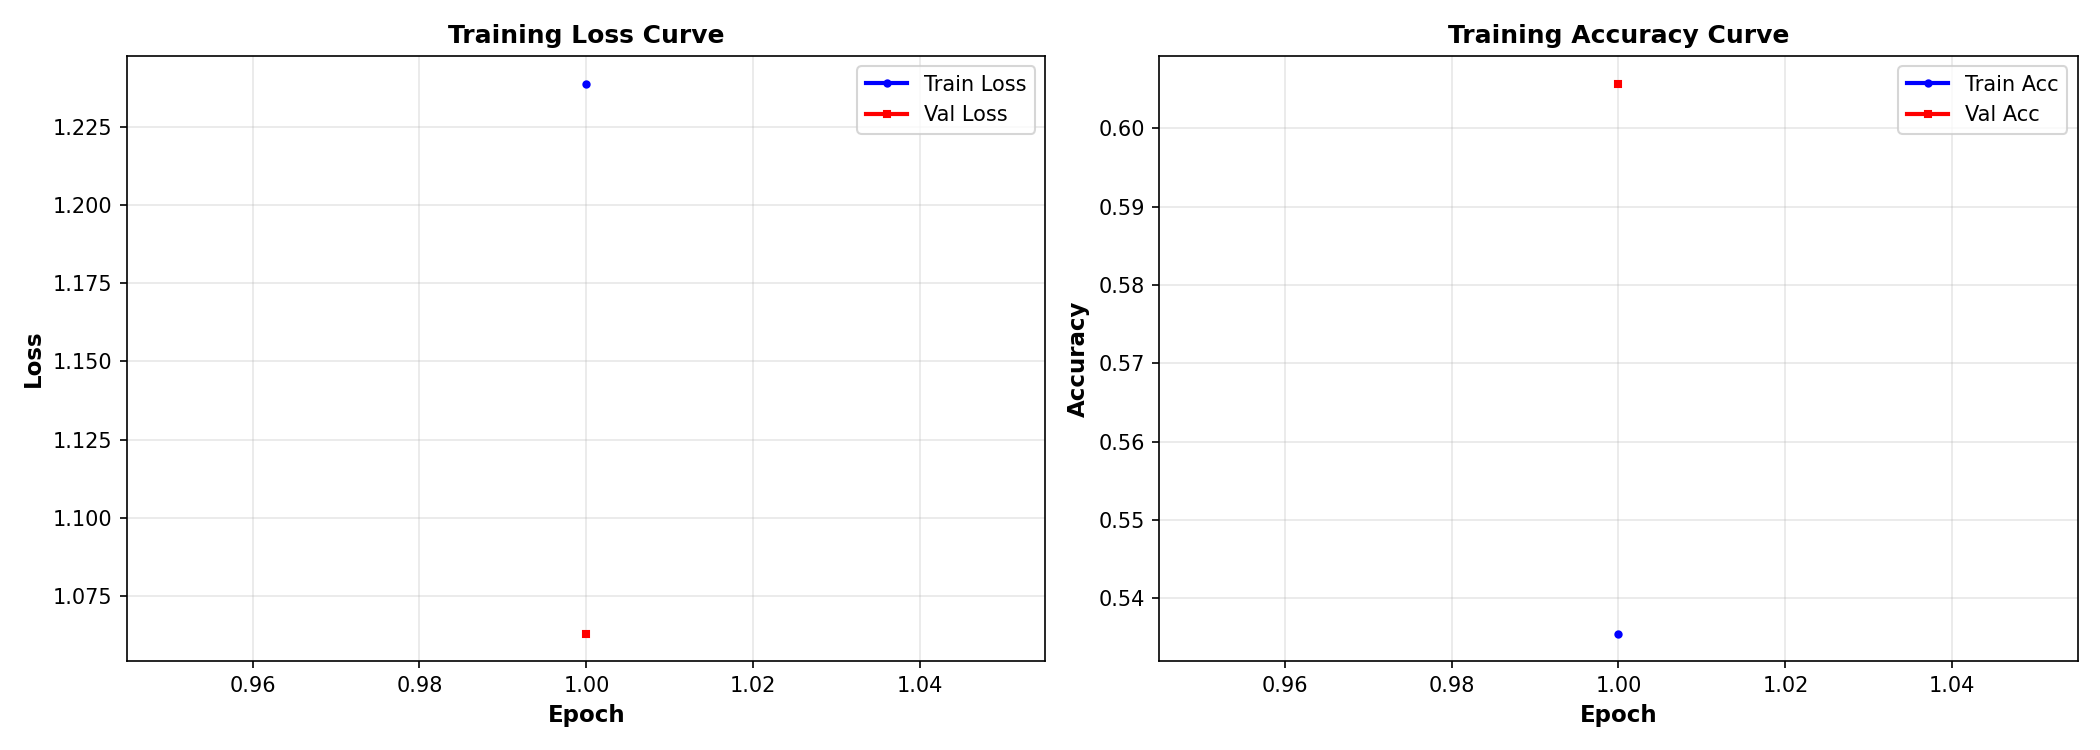
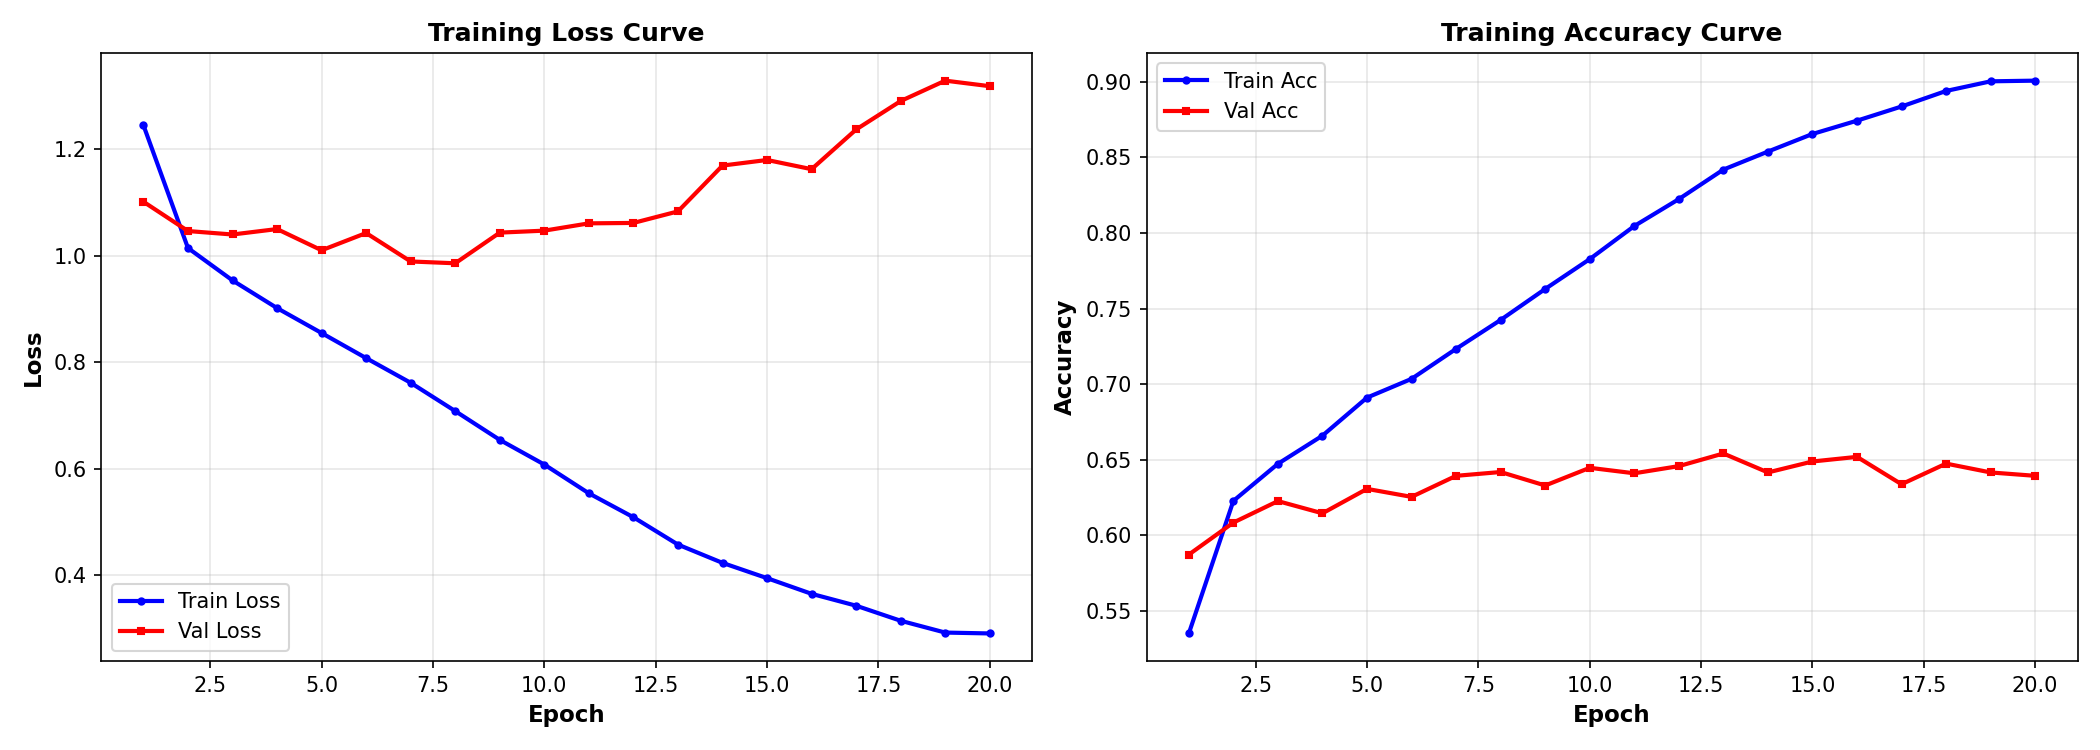
ResNet训练结果

diff --git a/scripts/train.py b/scripts/train.py
@@ -240,7 +240,7 @@ def main():
                         help='数据集根目录')
     parser.add_argument('--checkpoint_dir', type=str, default='checkpoints',
                         help='模型保存目录')
-    parser.add_argument('--epochs', type=int, default=1,
+    parser.add_argument('--epochs', type=int, default=20,
                         help='训练轮数')
     parser.add_argument('--batch_size', type=int, default=32,
                         help='批次大小')
